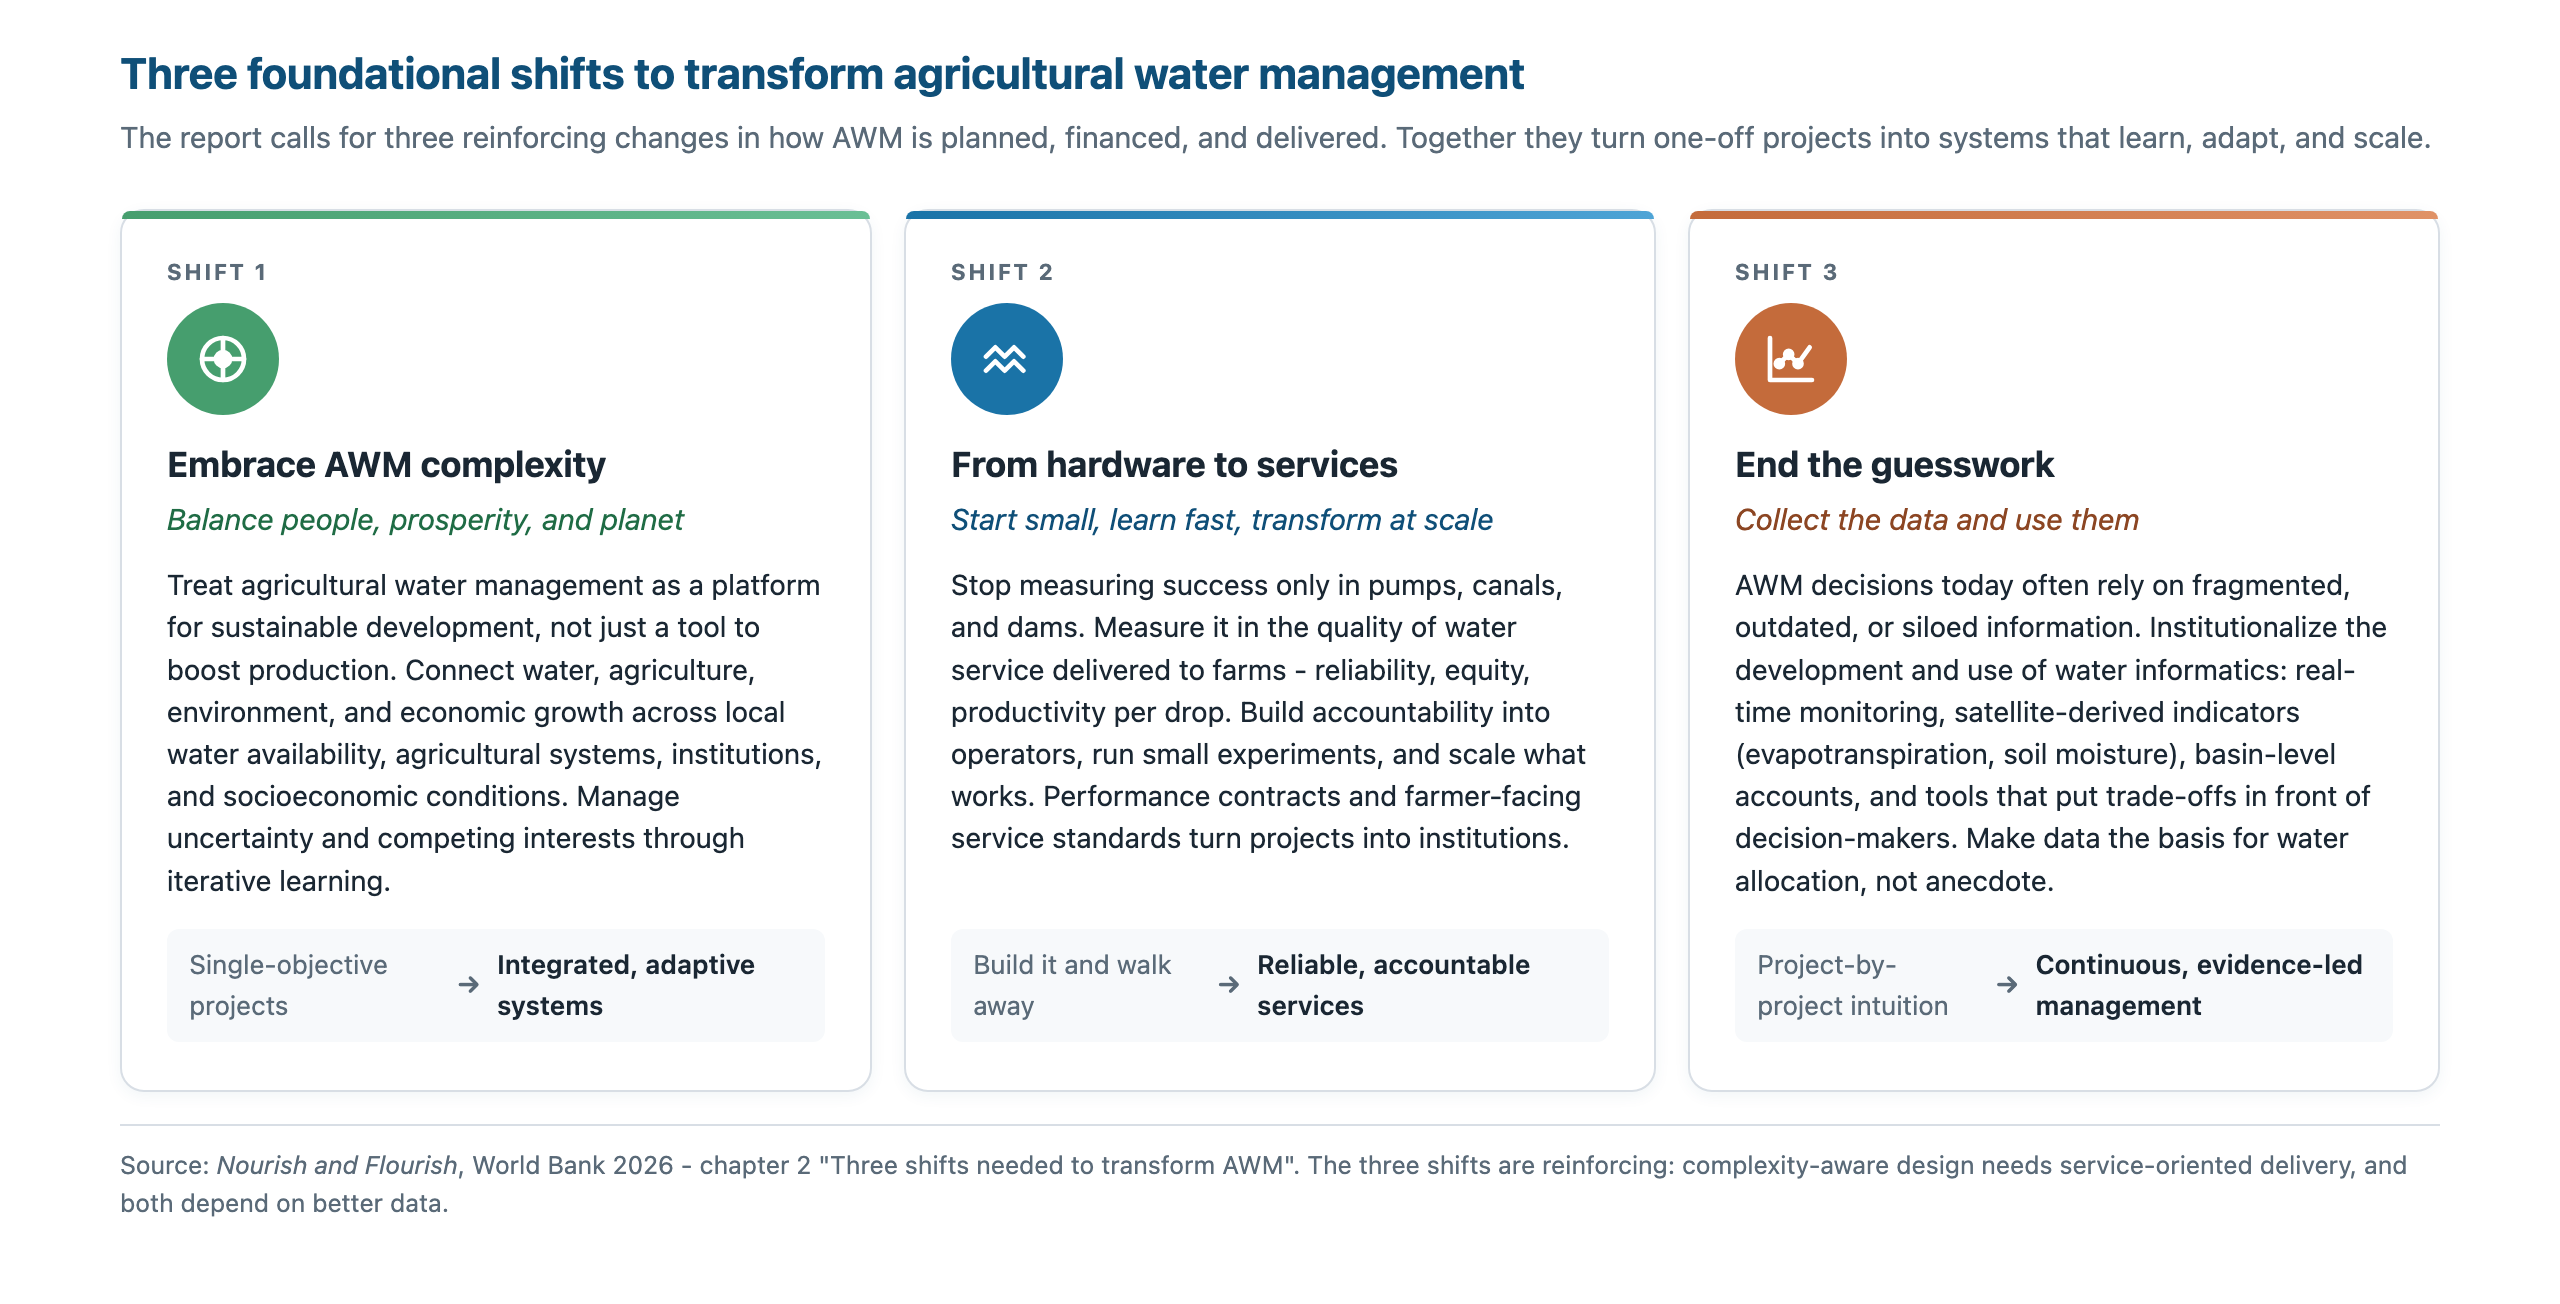
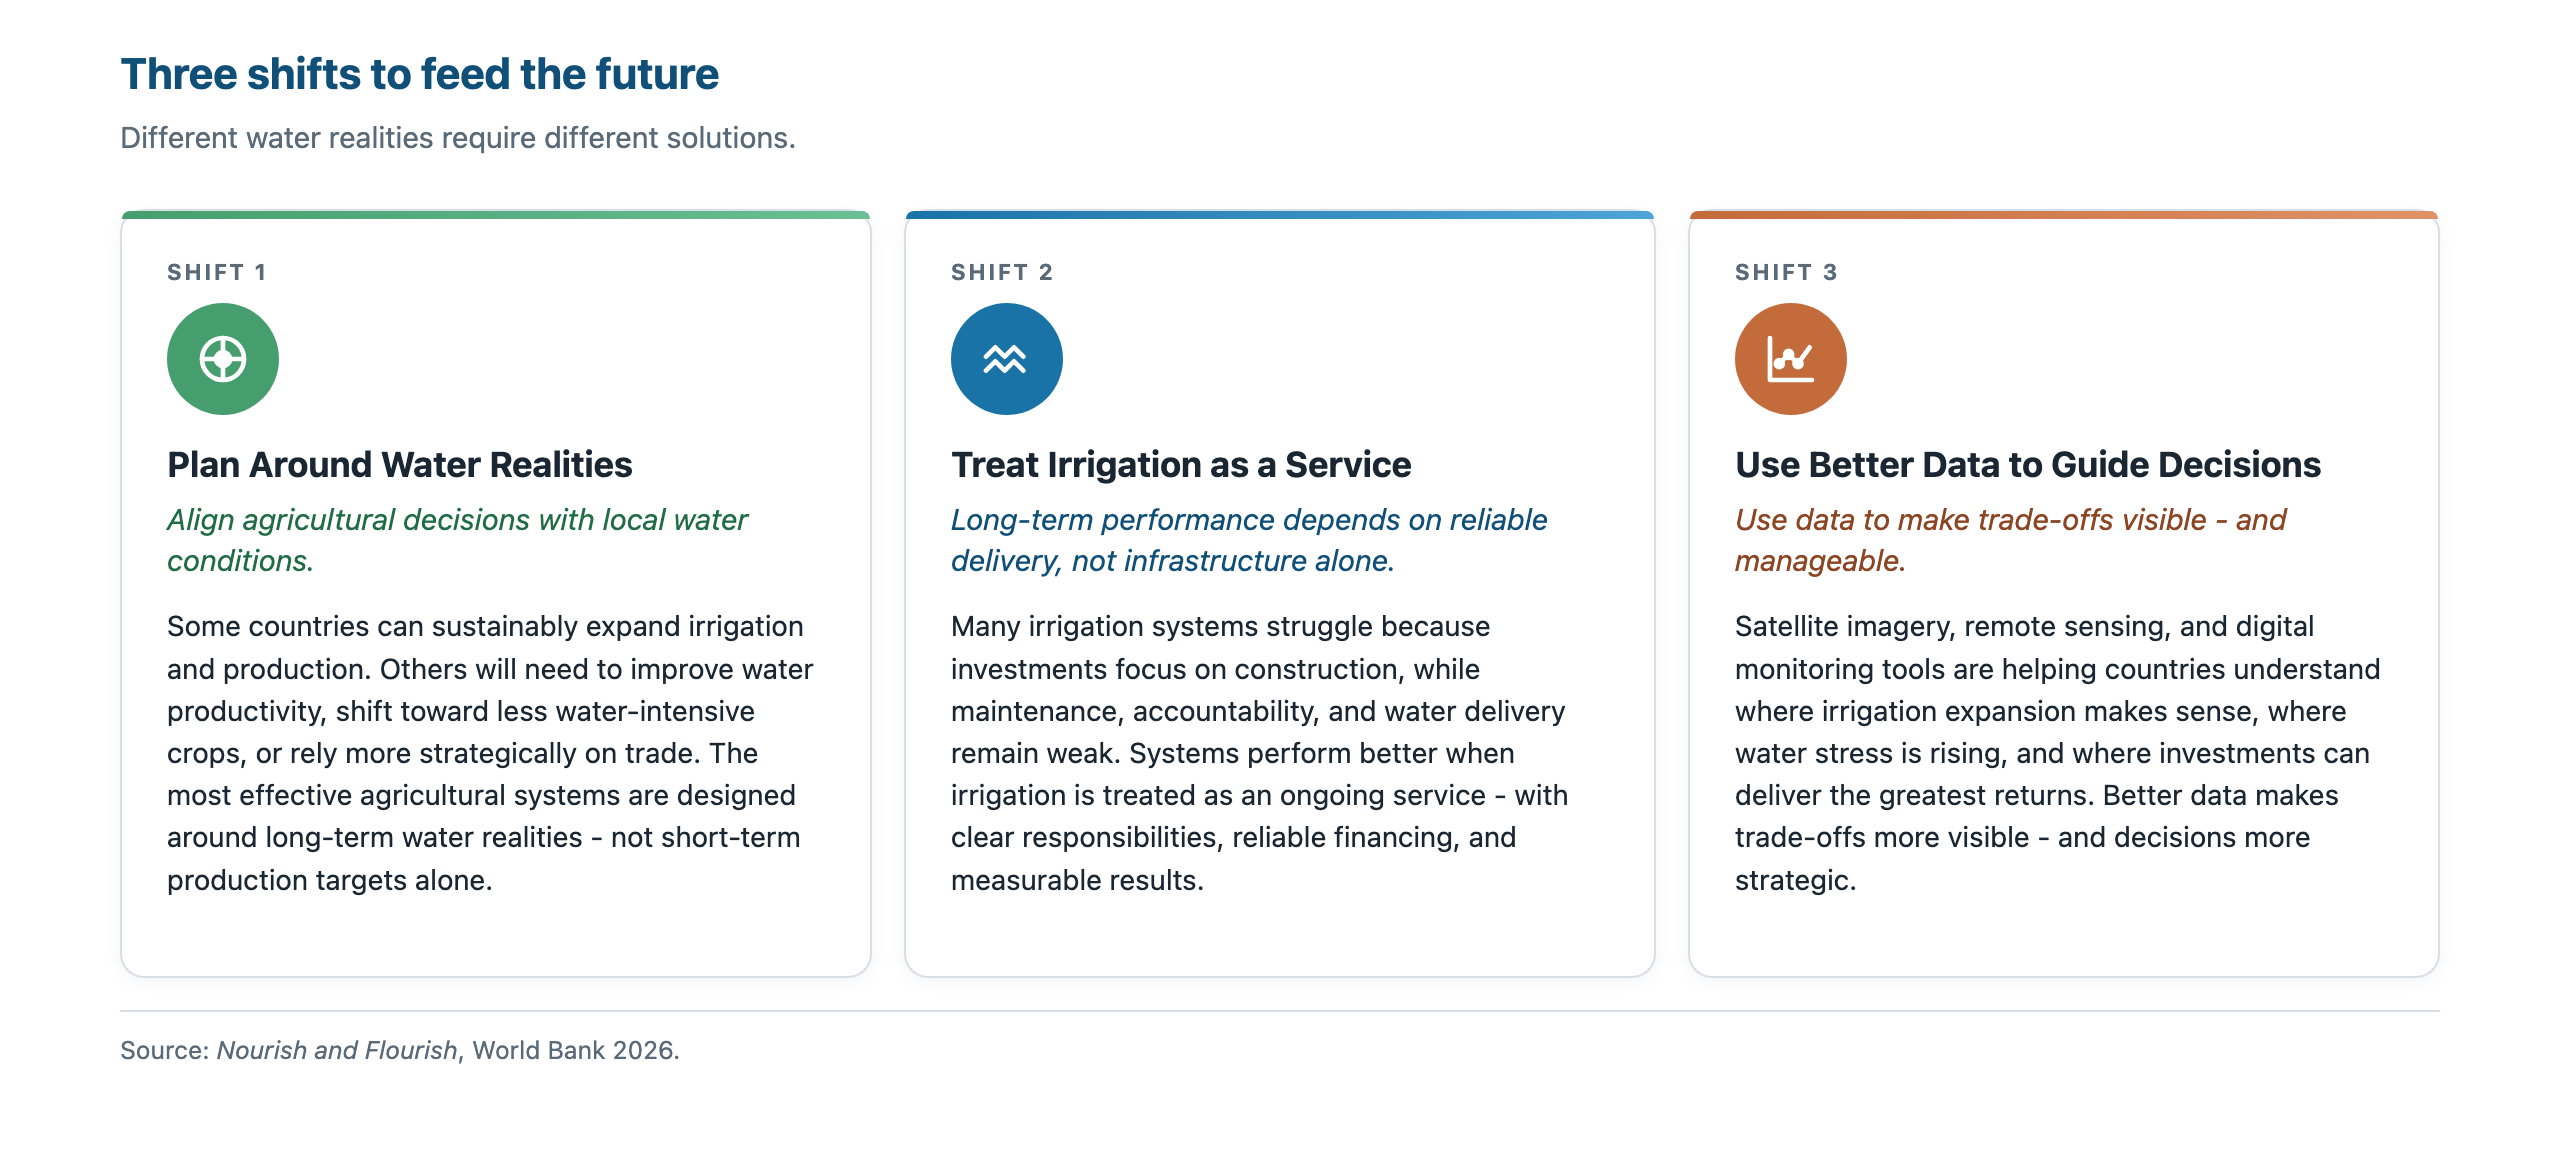
Align viz on-chart text to Natasha's verbatim Draft 3
Remove editorializing and invented narrative baked into the viz layer so the
graphics carry only neutral titles, data labels, and source citations - the
StoryMap narrative panels carry the approved text.

- three-shifts: rebuilt to her exact shift names/leads/bodies (Plan Around Water
  Realities / Treat Irrigation as a Service / Use Better Data to Guide Decisions);
  dropped invented framing and from->to arrow rows
- scale-3b-vs-10b: removed invented 'Closing the gap...' footer; neutral title
- ag-production / yield / jobs: dropped interpretive takeaways; neutral titles
- investment-gap: neutral title; dropped editorial subtitle + AgriConnect footer
- regenerated 4 static PNGs

Changed region(s): [[0.0312, 0.1562, 0.9688, 0.7812], [0.0312, 0.0312, 0.9375, 0.125], [0.0312, 0.8438, 0.9375, 0.9375]]

diff --git a/viz/three-shifts.html b/viz/three-shifts.html
@@ -136,8 +136,8 @@
   </script>
   <div class="viz-page">
     <header class="viz-header">
-      <h1>Three foundational shifts to transform agricultural water management</h1>
-      <p>The report calls for three reinforcing changes in how AWM is planned, financed, and delivered. Together they turn one-off projects into systems that learn, adapt, and scale.</p>
+      <h1>Three shifts to feed the future</h1>
+      <p>Different water realities require different solutions.</p>
     </header>
 
     <div class="shifts-grid">
@@ -150,14 +150,9 @@
             <circle cx="12" cy="12" r="3" fill="currentColor"/>
           </svg>
         </div>
-        <p class="shift-title">Embrace AWM complexity</p>
-        <p class="shift-tagline">Balance people, prosperity, and planet</p>
-        <p class="shift-body">Treat agricultural water management as a platform for sustainable development, not just a tool to boost production. Connect water, agriculture, environment, and economic growth across local water availability, agricultural systems, institutions, and socioeconomic conditions. Manage uncertainty and competing interests through iterative learning.</p>
-        <div class="shift-arrow">
-          <span class="shift-from">Single-objective projects</span>
-          <span class="arrow">&rarr;</span>
-          <span class="shift-to">Integrated, adaptive systems</span>
-        </div>
+        <p class="shift-title">Plan Around Water Realities</p>
+        <p class="shift-tagline">Align agricultural decisions with local water conditions.</p>
+        <p class="shift-body">Some countries can sustainably expand irrigation and production. Others will need to improve water productivity, shift toward less water-intensive crops, or rely more strategically on trade. The most effective agricultural systems are designed around long-term water realities - not short-term production targets alone.</p>
       </div>
 
       <div class="shift-card s2">
@@ -168,14 +163,9 @@
             <path d="M3 11l4-4 4 4 4-4 4 4"/>
           </svg>
         </div>
-        <p class="shift-title">From hardware to services</p>
-        <p class="shift-tagline">Start small, learn fast, transform at scale</p>
-        <p class="shift-body">Stop measuring success only in pumps, canals, and dams. Measure it in the quality of water service delivered to farms - reliability, equity, productivity per drop. Build accountability into operators, run small experiments, and scale what works. Performance contracts and farmer-facing service standards turn projects into institutions.</p>
-        <div class="shift-arrow">
-          <span class="shift-from">Build it and walk away</span>
-          <span class="arrow">&rarr;</span>
-          <span class="shift-to">Reliable, accountable services</span>
-        </div>
+        <p class="shift-title">Treat Irrigation as a Service</p>
+        <p class="shift-tagline">Long-term performance depends on reliable delivery, not infrastructure alone.</p>
+        <p class="shift-body">Many irrigation systems struggle because investments focus on construction, while maintenance, accountability, and water delivery remain weak. Systems perform better when irrigation is treated as an ongoing service - with clear responsibilities, reliable financing, and measurable results.</p>
       </div>
 
       <div class="shift-card s3">
@@ -189,19 +179,14 @@
             <circle cx="15" cy="14" r="1.5" fill="currentColor"/>
           </svg>
         </div>
-        <p class="shift-title">End the guesswork</p>
-        <p class="shift-tagline">Collect the data and use them</p>
-        <p class="shift-body">AWM decisions today often rely on fragmented, outdated, or siloed information. Institutionalize the development and use of water informatics: real-time monitoring, satellite-derived indicators (evapotranspiration, soil moisture), basin-level accounts, and tools that put trade-offs in front of decision-makers. Make data the basis for water allocation, not anecdote.</p>
-        <div class="shift-arrow">
-          <span class="shift-from">Project-by-project intuition</span>
-          <span class="arrow">&rarr;</span>
-          <span class="shift-to">Continuous, evidence-led management</span>
-        </div>
+        <p class="shift-title">Use Better Data to Guide Decisions</p>
+        <p class="shift-tagline">Use data to make trade-offs visible - and manageable.</p>
+        <p class="shift-body">Satellite imagery, remote sensing, and digital monitoring tools are helping countries understand where irrigation expansion makes sense, where water stress is rising, and where investments can deliver the greatest returns. Better data makes trade-offs more visible - and decisions more strategic.</p>
       </div>
     </div>
 
     <p class="footer-note">
-      Source: <em>Nourish and Flourish</em>, World Bank 2026 - chapter 2 "Three shifts needed to transform AWM". The three shifts are reinforcing: complexity-aware design needs service-oriented delivery, and both depend on better data. <a class="back-link" href="../index.html">&larr; Back to gallery</a>
+      Source: <em>Nourish and Flourish</em>, World Bank 2026. <a class="back-link" href="../index.html">&larr; Back to gallery</a>
     </p>
   </div>
 </body>

diff --git a/viz/investment-gap.html b/viz/investment-gap.html
@@ -164,8 +164,8 @@
   </script>
   <div class="viz-page">
     <header class="viz-header">
-      <h1>The investment gap is small. The reallocation opportunity is huge.</h1>
-      <p>Two numbers reframe the agricultural-water-management investment debate.</p>
+      <h1>Investment needed vs agricultural public expenditure</h1>
+      <p>Annual figures, $ billion per year.</p>
     </header>
 
     <div class="stat-row">
@@ -204,7 +204,7 @@
     </div>
 
     <p class="footer-note">
-      Source: <em>Nourish and Flourish</em>, World Bank 2026 - chapter 5 financing figures (p. 41). AgriConnect and other blended-finance vehicles are the practical instruments for redirecting agricultural public expenditure into water-smart investment. <a class="back-link" href="../index.html">&larr; Back to gallery</a>
+      Source: <em>Nourish and Flourish</em>, World Bank 2026 - chapter 5 financing figures (p. 41). <a class="back-link" href="../index.html">&larr; Back to gallery</a>
     </p>
   </div>
 </body>

diff --git a/viz/jobs-stat.html b/viz/jobs-stat.html
@@ -169,7 +169,7 @@
   <div class="viz-page">
     <header class="viz-header">
       <h1>Expanding irrigation where water is available could create 245 million jobs.</h1>
-      <p>Where reliable water meets unmet demand, irrigation pulls entire rural economies forward - not just farms.</p>
+      <p>Jobs that expanding irrigation could create, where water is available.</p>
     </header>
 
     <div class="jobs-grid">
@@ -197,10 +197,6 @@
         <div class="proportion-rest">27M</div>
       </div>
       <p class="proportion-caption"><strong>~89% of the job-creation potential</strong> sits in Sub-Saharan Africa, where irrigated area is currently lowest.</p>
-    </div>
-
-    <div class="takeaway">
-      <p>Jobs extend far beyond farming - <strong>equipment supply, processing, transport, finance, and agricultural services</strong>. Reliable water enables entire value chains, not just larger harvests.</p>
     </div>
 
     <p class="footer-note">

diff --git a/viz/yield-rainfed-irrigated.html b/viz/yield-rainfed-irrigated.html
@@ -194,13 +194,13 @@
   </script>
   <div class="viz-page">
     <header class="viz-header">
-      <h1>Where rainfall is unreliable, irrigation sharply raises productivity.</h1>
+      <h1>Rainfed vs irrigated rice yields</h1>
       <p>Rice yields across Sub-Saharan Africa - rainfed versus irrigated, from a 12-country meta-analysis.</p>
     </header>
 
     <div class="chart-card">
       <p class="chart-title">Rice yield range (tonnes per hectare)</p>
-      <p class="chart-sub">Each bar shows the observed range across studies. Irrigated systems start where rainfed systems top out.</p>
+      <p class="chart-sub">Each bar shows the observed range across studies.</p>
       <div class="yield-rows">
         <div class="yield-row">
           <div class="yield-label">Rainfed

diff --git a/viz/scale-3b-vs-10b.html b/viz/scale-3b-vs-10b.html
@@ -219,8 +219,8 @@
   </script>
   <div class="viz-page">
     <header class="viz-header">
-      <h1>Today, we can sustainably feed 3.4 billion. By 2050, we need to feed 10 billion.</h1>
-      <p>The way we produce food today can sustainably feed less than half the world.</p>
+      <h1>Today's sustainable capacity vs the 2050 need</h1>
+      <p>Billions of people, within planetary boundaries.</p>
     </header>
 
     <div class="scale-row">
@@ -261,10 +261,6 @@
         <span>5B</span>
         <span>10B</span>
       </div>
-    </div>
-
-    <div class="takeaway">
-      <p>Closing the gap means producing food <strong>differently</strong> - not just producing more. Water is at the center of that shift.</p>
     </div>
 
     <p class="footer-note">

diff --git a/viz/ag-production-water-stress.html b/viz/ag-production-water-stress.html
@@ -167,8 +167,8 @@
   </script>
   <div class="viz-page">
     <header class="viz-header">
-      <h1>Where the world grows its food - and where the water is running out</h1>
-      <p>Green shows total agricultural production (FAOSTAT, 2019, billion kcal). Red hatching marks countries above the WRI Aqueduct high-stress threshold. Where deep green meets hatching, large food output depends on tight water budgets.</p>
+      <h1>Agricultural production and water stress</h1>
+      <p>Green shows total agricultural production (FAOSTAT, 2019, billion kcal). Red hatching marks countries above the WRI Aqueduct high-stress threshold.</p>
     </header>
 
     <div class="controls">
